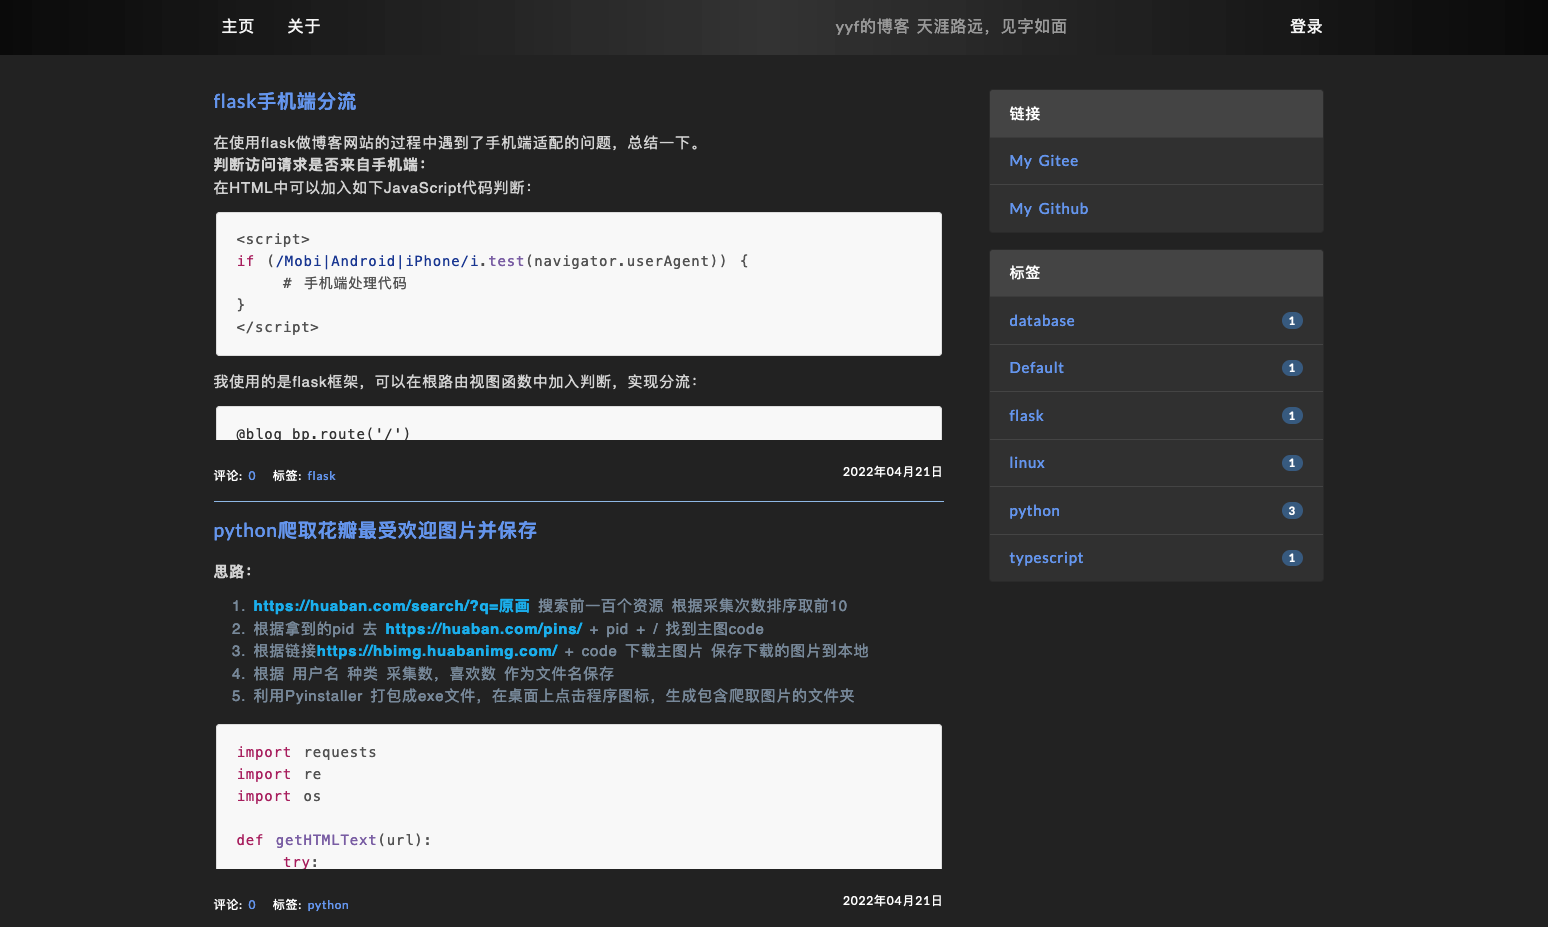
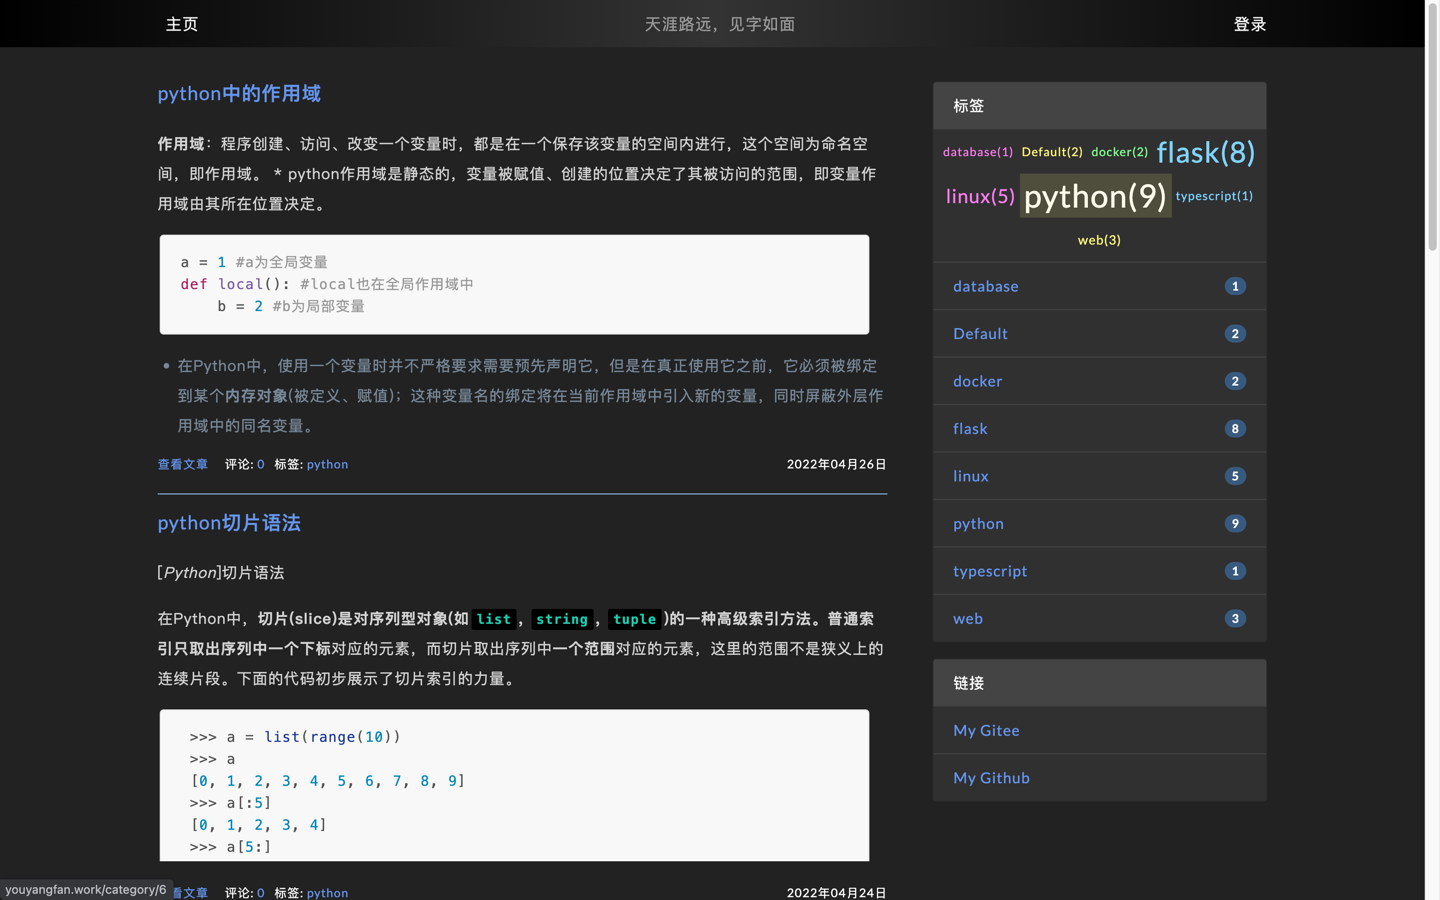
replace pics in readme for wordcloud

diff --git a/bluelog/templates/blog/_sidebar.html b/bluelog/templates/blog/_sidebar.html
@@ -6,7 +6,7 @@
                 {% for category in categories %}
                     <li>
                         <a href="{{ url_for('blog.show_category', category_id=category.id) }}"
-                           style="font-size: {{ category.posts|length *0.2 + 0.2 }}rem">{{ category.name }}({{ category.posts|length }})</a>
+                           style="font-size: {{ category.posts|length *0.2 + 0.5 }}rem">{{ category.name }}({{ category.posts|length }})</a>
                     </li>
                 {% endfor %}
             </ul>

diff --git a/README.md b/README.md
@@ -1,5 +1,5 @@
 # flaskblog
-*使用flask搭建的个人博客并使用docker部署，支持markdown语法，适配手机端。*
+*使用flask搭建的个人博客并使用docker部署，支持markdown语法，适配手机端。有简单美观的标签云*
 
 样例：[youyangfan.work](http://124.221.180.146/)
 
